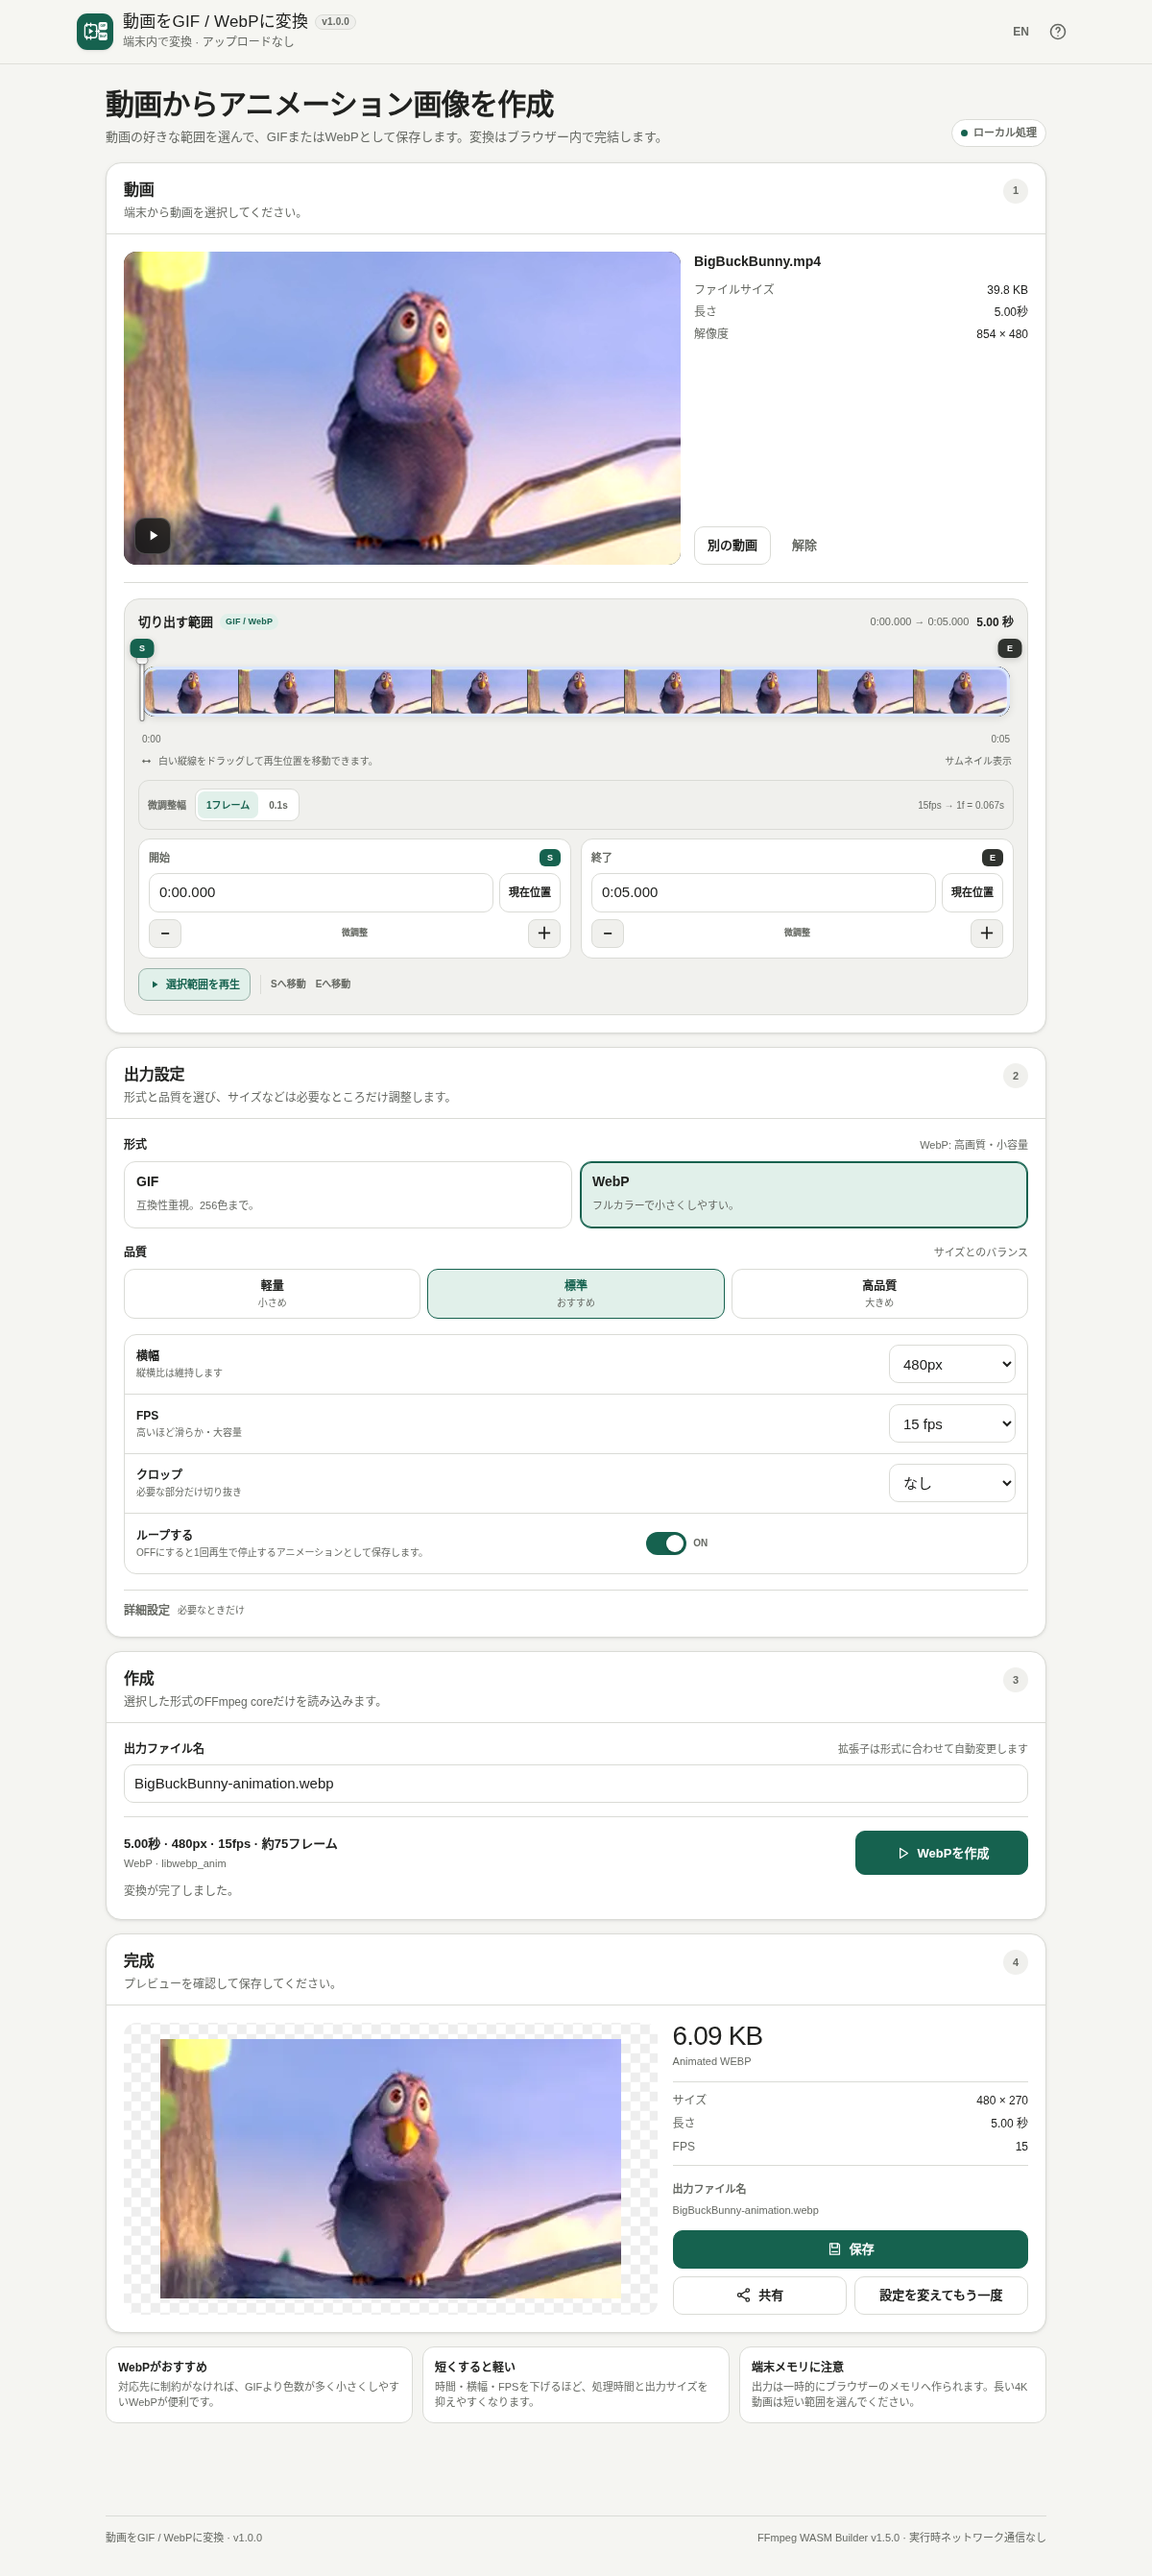
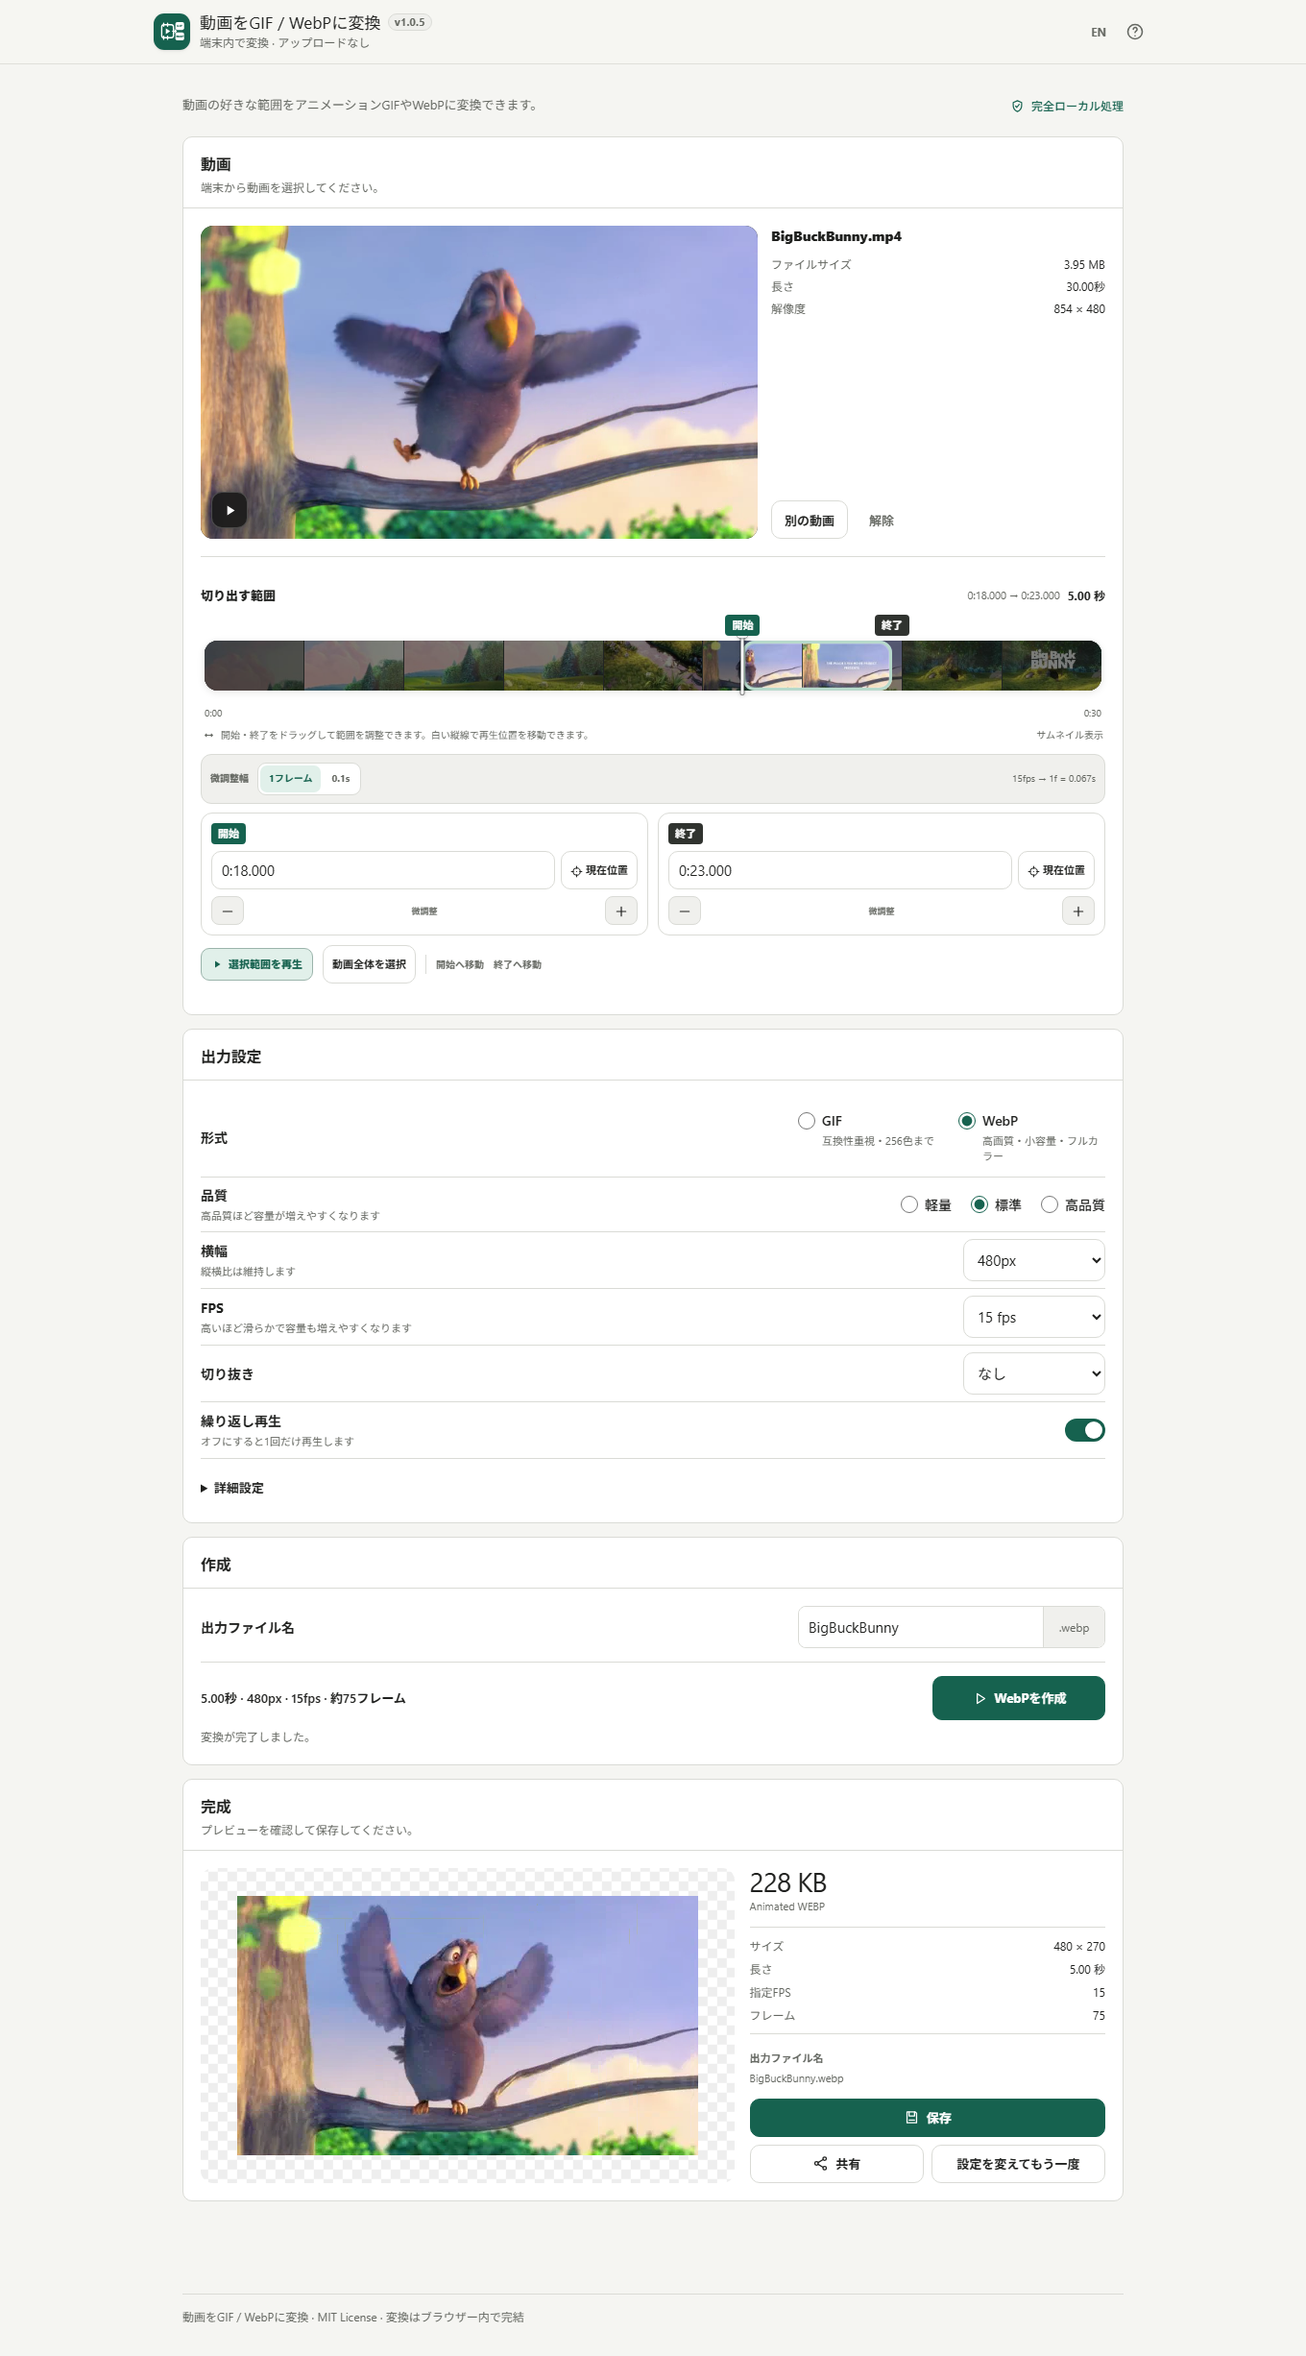
docs: capture Big Buck Bunny conversion in the v1.0.5 Japanese and English UI

diff --git a/README.md b/README.md
@@ -18,9 +18,9 @@ GitHub Pages delivers the initial HTML. After it loads, video trimming, decoding
 
 ### UI
 
-![English screenshot](assets/screenshot-en.png)
+![English v1.0.5 interface showing the selected Big Buck Bunny clip and its WebP preview](assets/screenshot-en.png)
 
-The screenshots use **Big Buck Bunny** sample video. These restored images show an earlier app version; new captures are generated separately from synthetic regression tests.
+In v1.0.5, we converted seconds 18–23 of **Big Buck Bunny** into a 480 × 270 animated WebP at 15 fps.
 
 **Big Buck Bunny attribution:** © 2008 Blender Foundation / www.bigbuckbunny.org — licensed under [Creative Commons Attribution 3.0 Unported (CC BY 3.0)](https://creativecommons.org/licenses/by/3.0/).
 
